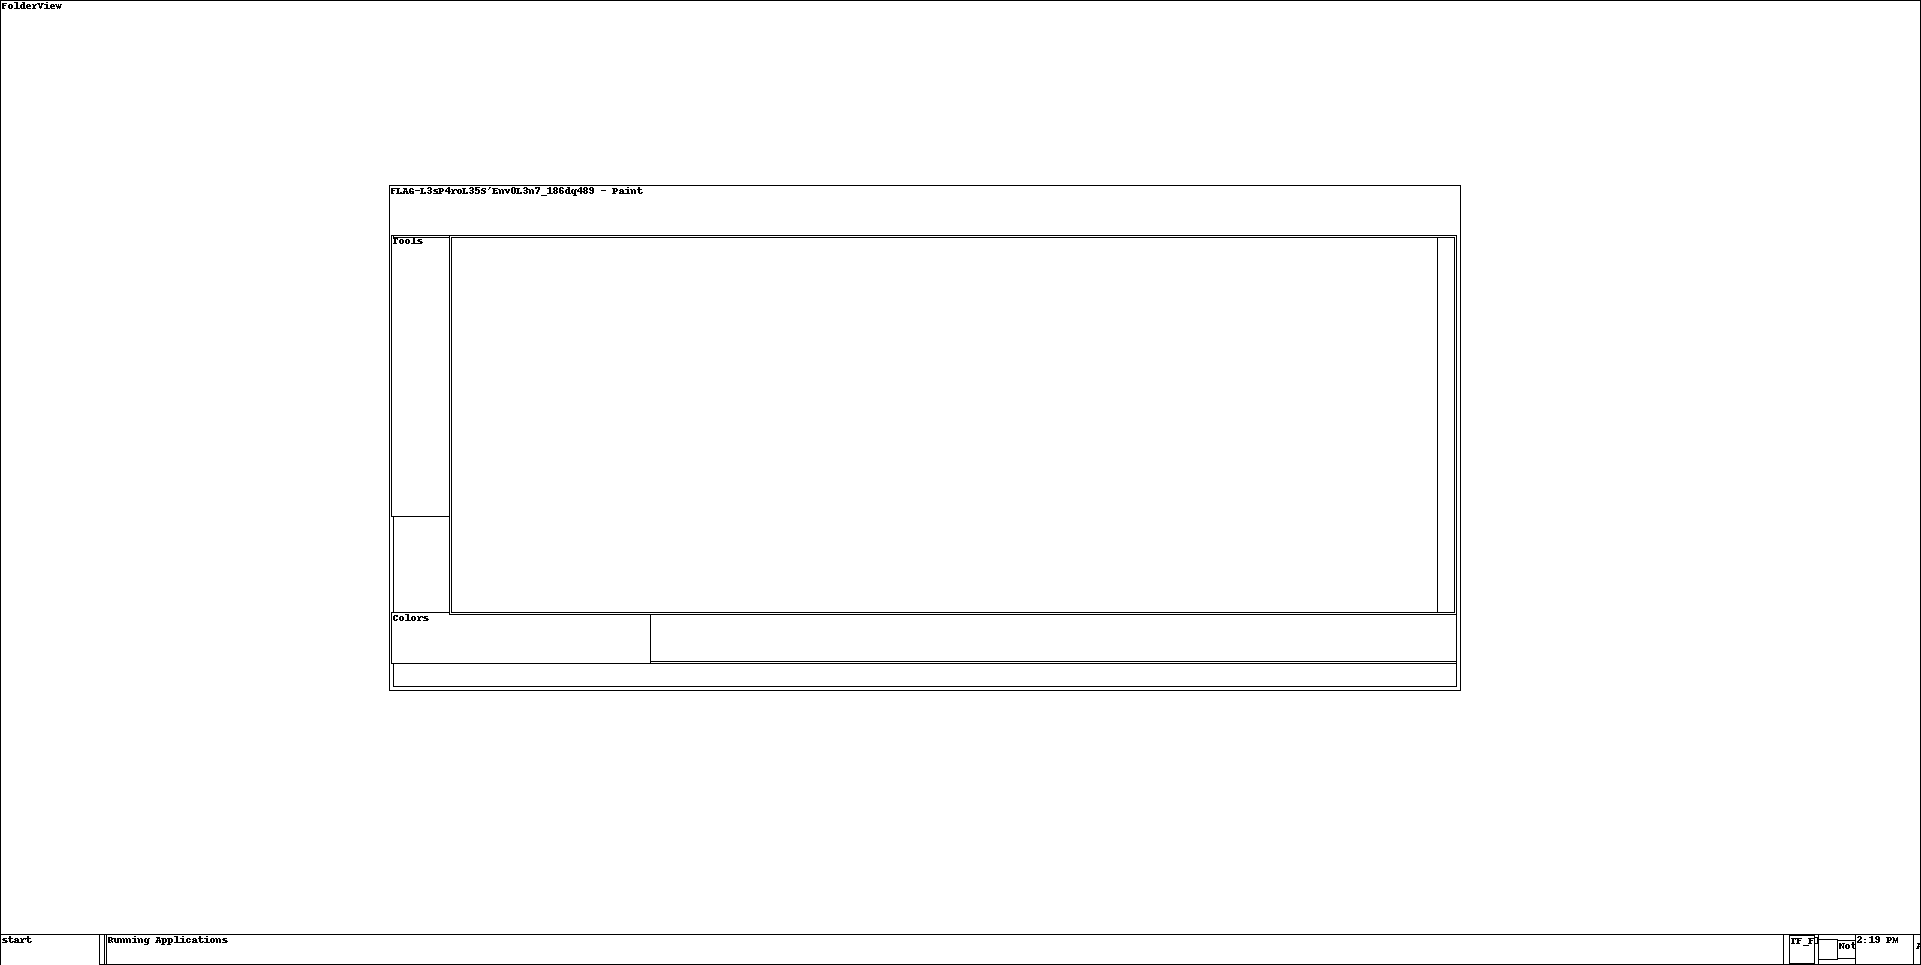
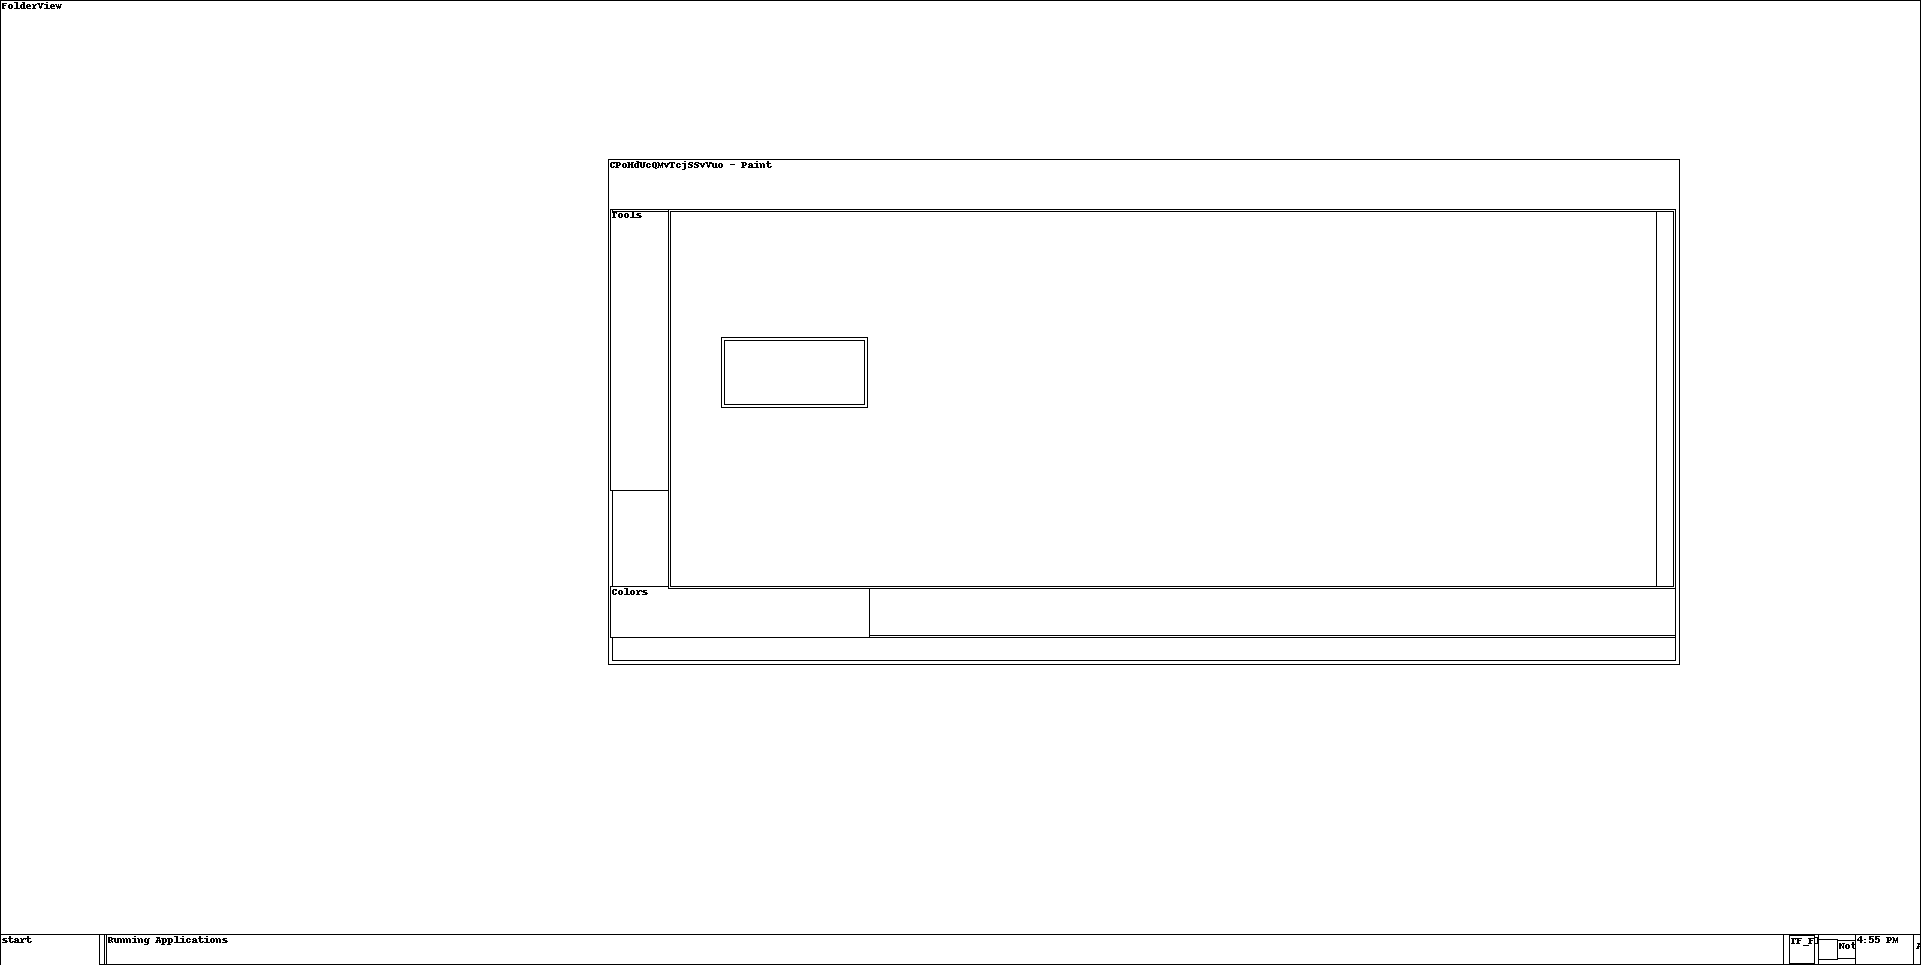
Make volatility challenges non-greppable.

diff --git a/challenges/forensics/volatility-1/writeup.md b/challenges/forensics/volatility-1/writeup.md
@@ -8,7 +8,7 @@ Si on fait simplement
 volatility pslist -f /path/to/volatile_mem.dmp
 ```
 
-Le nom est tronqué à seulement `FLAG-PSLIST_eve`.
+Le nom est tronqué à seulement `b6eTMrzqNIvb31x`.
 
 Par contre, on spécifie que le processus a été lancé par la ligne de commande, donc on peut utiliser le module `cmdline`:
 
@@ -16,8 +16,8 @@ Par contre, on spécifie que le processus a été lancé par la ligne de command
 $ volatility cmdline -f /path/to/volatile_mem.dmp
 [...]
 ************************************************************************
-FLAG-PSLIST_eve pid:   3848
-Command line : C:\FLAG-PSLIST_everytime_4sa3r8uj.exe
+b6eTMrzqNIvb31x pid:   1036
+Command line : C:\b6eTMrzqNIvb31xnIdosZtrwl6njxxAPGJOAGOj8y5Pj5khLeWNiufQM3a3XL8KUGkhwOnVUM3A.exe
 ```
 
-Avec seulement le nom de fichier sans extension ça donne `FLAG-PSLIST_everytime_4sa3r8uj`
[1 lines of base64/hex data omitted]

diff --git a/challenges/forensics/volatility-1/README.md b/challenges/forensics/volatility-1/README.md
@@ -6,11 +6,13 @@ Author: @CycleOfTheAbsurd
 
 Y'a une personne louche qui a joué avec ma machine virtuelle. Aidez-moi à retrouver les flags qui ont été laissés dessus.
 
-Voici le dump mémoire de la machine virtuelle: https://drive.google.com/file/d/1w4WC5TYel40b2Nx0luhENYBKU0gEWRjJ/view?usp=sharing
+Voici le dump mémoire de la machine virtuelle: https://drive.google.com/file/d/1ds_PR_oCVqBIiAeOSBBJE_7Fb-HtHg_6/view?usp=sharing
+
+Les flags ne sont __pas__ au format `FLAG-.*`
 
 p.s. l'outil Volatility risque d'être très utile
 
-Défi #1: Un processus avec un long nom a été lancé à partir de la ligne de commande. Le flag est le nom du fichier exécutable sans l'extension (le `.exe`).
+Défi #1: Un processus avec un long nom a été lancé à partir de la ligne de commande (il s'agit du le dernier processus lancé). Le flag est le nom du fichier exécutable sans l'extension (le `.exe`).
 
 
 ## Setup

diff --git a/challenges/forensics/volatility-2/writeup.md b/challenges/forensics/volatility-2/writeup.md
@@ -8,8 +8,8 @@ $ volatility clipboard -f /path/to/volatile_mem.dmp
 Volatility Foundation Volatility Framework 2.6.1
 Session    WindowStation Format                 Handle Object     Data
 ---------- ------------- ------------------ ---------- ---------- --------------------------------------------------
-         0 WinSta0       CF_UNICODETEXT       0x140127 0xe19d8568 FLAG-HiddenInTheClipBoard_y89qe12t
+		 0 WinSta0       CF_UNICODETEXT      0x96f00eb 0xe24ea678 SrayBRptOqTT3wOhR7tKDA9546ob5VIh+Hhn3GnO
 [...]
 ```
 
-`FLAG-HiddenInTheClipBoard_y89qe12t`
+`SrayBRptOqTT3wOhR7tKDA9546ob5VIh+Hhn3GnO`

diff --git a/challenges/forensics/volatility-3/README.md b/challenges/forensics/volatility-3/README.md
@@ -8,9 +8,11 @@ Y'a une personne louche qui a joué avec ma machine virtuelle. Aidez-moi à retr
 
 Utilisez le même fichier que pour Mémoire Volatile 1.
 
+Les flags ne sont __pas__ au format `FLAG-.*`
+
 p.s. l'outil Volatility risque d'être très utile.
 
-Défi #3: Il y avait une fenêtre visible sur mon _Desktop_ avec un truc intéressant
+Défi #3: Le flag est le titre de la fenêtre `paint` ouverte sur le desktop (sans le " - Paint")
 
 
 ## Setup

diff --git a/challenges/forensics/volatility-4/README.md b/challenges/forensics/volatility-4/README.md
@@ -8,9 +8,11 @@ Y'a une personne louche qui a joué avec ma machine virtuelle. Aidez-moi à retr
 
 Utilisez le même fichier que pour Mémoire Volatile 1.
 
+Les flags ne sont __pas__ au format `FLAG-.*`
+
 p.s. l'outil Volatility risque d'être très utile
 
-Défi #4: Il y avait un fichier .rtf ouvert dans wordpad qui contient un flag.
+Défi #4: Le flag est le contenu d'un fichier .rtf actuellement ouvert dans wordpad.
 
 
 ## Setup

diff --git a/challenges/forensics/volatility-2/README.md b/challenges/forensics/volatility-2/README.md
@@ -8,6 +8,8 @@ Y'a une personne louche qui a joué avec ma machine virtuelle. Aidez-moi à retr
 
 Utilisez le même fichier que Mémoire Volatile 1.
 
+Les flags ne sont __pas__ au format `FLAG-.*`
+
 p.s. l'outil Volatility risque d'être très utile.
 
 Défi #2: J'avais copié un flag juste avant que l'individu louche arrive

diff --git a/challenges/forensics/volatility-3/writeup.md b/challenges/forensics/volatility-3/writeup.md
@@ -10,4 +10,4 @@ volatility screenshot -f /path/to/volatile_mem.dmp -D /output/path/for/screensho
 
 ![Vue en wireframe du desktop](./desktop.png)
 
-`FLAG-L3sP4roL35S'Env0L3n7_186dq489`
+`CPoHdVcQMvTcjSSvVuo`
